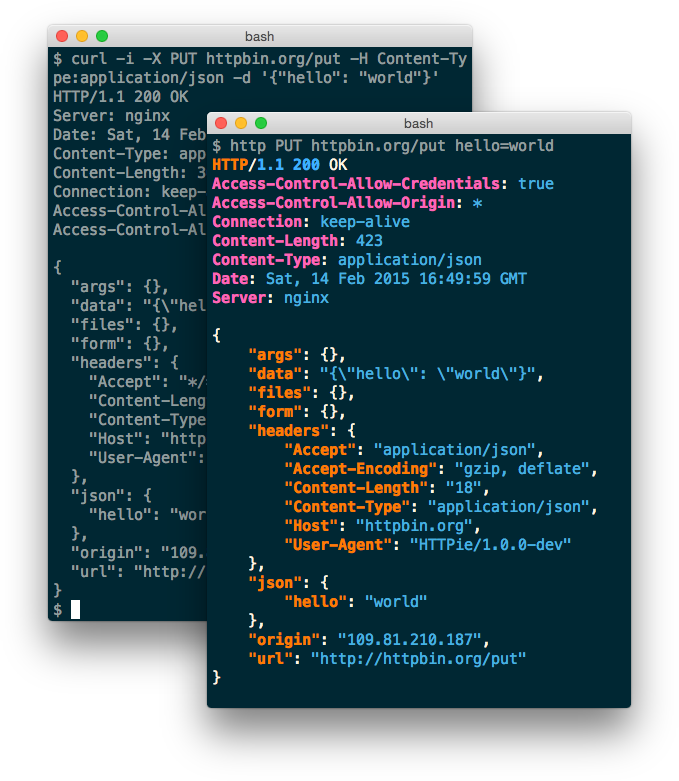
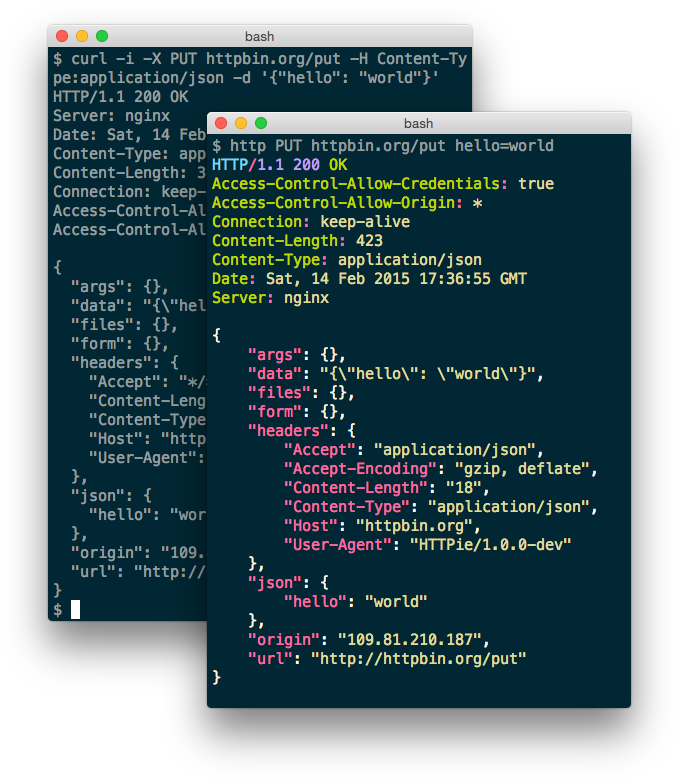
Default --style to "monokai"
419ca85

diff --git a/httpie/output/formatters/colors.py b/httpie/output/formatters/colors.py
@@ -14,7 +14,7 @@ from httpie.plugins import FormatterPlugin
 # great and fruity seems to give the best result there.
 AVAILABLE_STYLES = set(pygments.styles.STYLE_MAP.keys())
 AVAILABLE_STYLES.add('solarized')
-DEFAULT_STYLE = 'fruity'
+DEFAULT_STYLE = 'monokai'
 
 
 class ColorFormatter(FormatterPlugin):

diff --git a/README.rst b/README.rst
@@ -1314,7 +1314,7 @@ Changelog
 *You can click a version name to see a diff with the previous one.*
 
 * `1.0.0-dev`_
-    * The default color ``--style`` is now ``fruity`` (was ``solarized``).
+    * The default color ``--style`` is now ``monokai`` (was ``solarized``).
     * Changed the default JSON ``Content-Type``
       from ``application/json; charset=utf-8`` to ``application/json``
       as UTF-8 is the default encoding for JSON.
